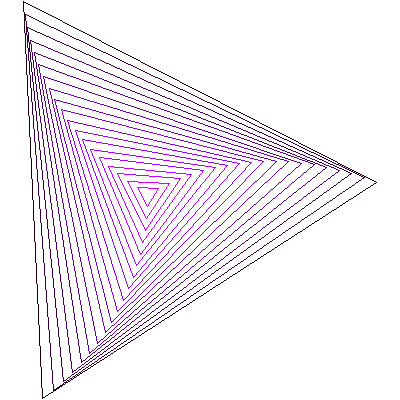
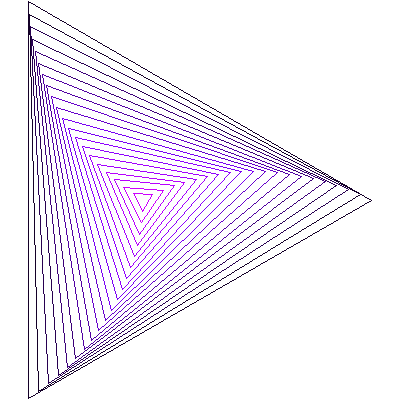
Added test cases for the ConvexPolygon class and fixed stupid bugs.

Changed region(s): [[0.06, 0.0, 0.93, 1.0]]

diff --git a/polygons.py b/polygons.py
@@ -1,7 +1,8 @@
 import math
 import random
 import copy
-iter += 1from PIL import Image, ImageDraw
+from PIL import Image, ImageDraw
+from functools import reduce
 
 
 def shiftZip(xs, ys, shift):
@@ -934,3 +935,93 @@ class ConvexPolygon:
             img.show()
 
         img.save(fileName)
+
+
+if __name__ == '__main__':
+    """Some test cases to show how the ConvexPolygon class can be used."""
+
+    def test1():
+        """Generates four random polygons and draws them and their bounding box."""
+
+        # Defines four random polygons by computing the convex hull of 4, 5, 6 and 7
+        #  randomly generated points on [0, 1]x[0, 1], respectively.
+        poly1 = ConvexPolygon.random(4)
+        poly2 = ConvexPolygon.random(5)
+        poly3 = ConvexPolygon.random(6)
+        poly4 = ConvexPolygon.random(7)
+
+        # Sets the color of the polygons. The numbers in Color(...) correspond to the
+        #  values r, g and b of the RGB color space, where r, g, b € [0, 1].
+        poly1.color = Color(r=0.020, g=0.678, b=0.294)
+        poly2.color = Color(r=0.020, g=0.616, b=0.678)
+        poly3.color = Color(r=0.318, g=0.020, b=0.678)
+        poly4.color = Color(r=0.020, g=0.239, b=0.678)
+
+        # Translates the polygons by the given vectors
+        poly1.translate(Vector(-0.25, -0.25))
+        poly2.translate(Vector(-0.25, 0.25))
+        poly3.translate(Vector(0.25, 0.25))
+        poly4.translate(Vector(0.25, -0.25))
+
+        # Computes the bounding box of the four polygons and change its color
+        polys = [poly1, poly2, poly3, poly4]
+        bbox = ConvexPolygon.boundingBox(
+            reduce(lambda p, q: ConvexPolygon.convexUnion(p, q), polys))
+        bbox.color = Color(r=1, g=0, b=0)
+        polys.append(bbox)
+
+        # Draws the result. Notice that show=True will show the result in a new
+        #  window. By default show=False.
+        ConvexPolygon.draw(polys, fileName='bounded-polys.png', show=True)
+
+    def test2():
+        """
+        Generates two random polygons and draws them along with their union and
+        intersection. Furthermore it shows some of its properties.
+        """
+        # Generates two random polygons by computing the convex hull of 8 randomly
+        #  generated points on [0, 1]x[0, 1].
+        poly1 = ConvexPolygon.random(8)
+        poly2 = ConvexPolygon.random(8)
+
+        # Computes intersection and (convex) union.
+        inter = ConvexPolygon.intersect(poly1, poly2, color=Color(1, 0, 0))
+        union = ConvexPolygon.convexUnion(poly1, poly2, color=Color(0, 1, 0))
+
+        # Creates a list with all the polygons
+        polys = [poly1, poly2, inter, union]
+
+        # Showing some properties
+        def showProperty(property):
+            print('Showing ', property, ':', sep='', end=' ')
+            for poly in polys:
+                print(getattr(poly, property)(), sep='', end=', ')
+            print()
+
+        print('--- The properties are shown in the order p1, p2, inter and union ---')
+        showProperty('area')
+        showProperty('perimeter')
+        showProperty('numberOfVertices')
+        showProperty('centroid')
+        print('Showing polygons:', polys)
+
+        # Draws the polygons
+        ConvexPolygon.draw(polys, fileName='inter-union.png', show=True)
+
+    def test3():
+        """Draws a fancy spinning triangle pattern."""
+
+        polys = []
+        for i in range(0, 20):
+            radius = 1 - 0.05*i
+            phase = 0.025*i
+            color = Color(r=0.08*i, g=0, b=min(1, 0.16*i))
+            poly = ConvexPolygon.genRegularPolygon(
+                n=3, r=radius, c=Point(1, 1), phase=phase, color=color)
+            polys.append(poly)
+
+        ConvexPolygon.draw(polys, fileName='cool-pattern.png', show=True)
+
+    test1()
+    test2()
+    test3()
